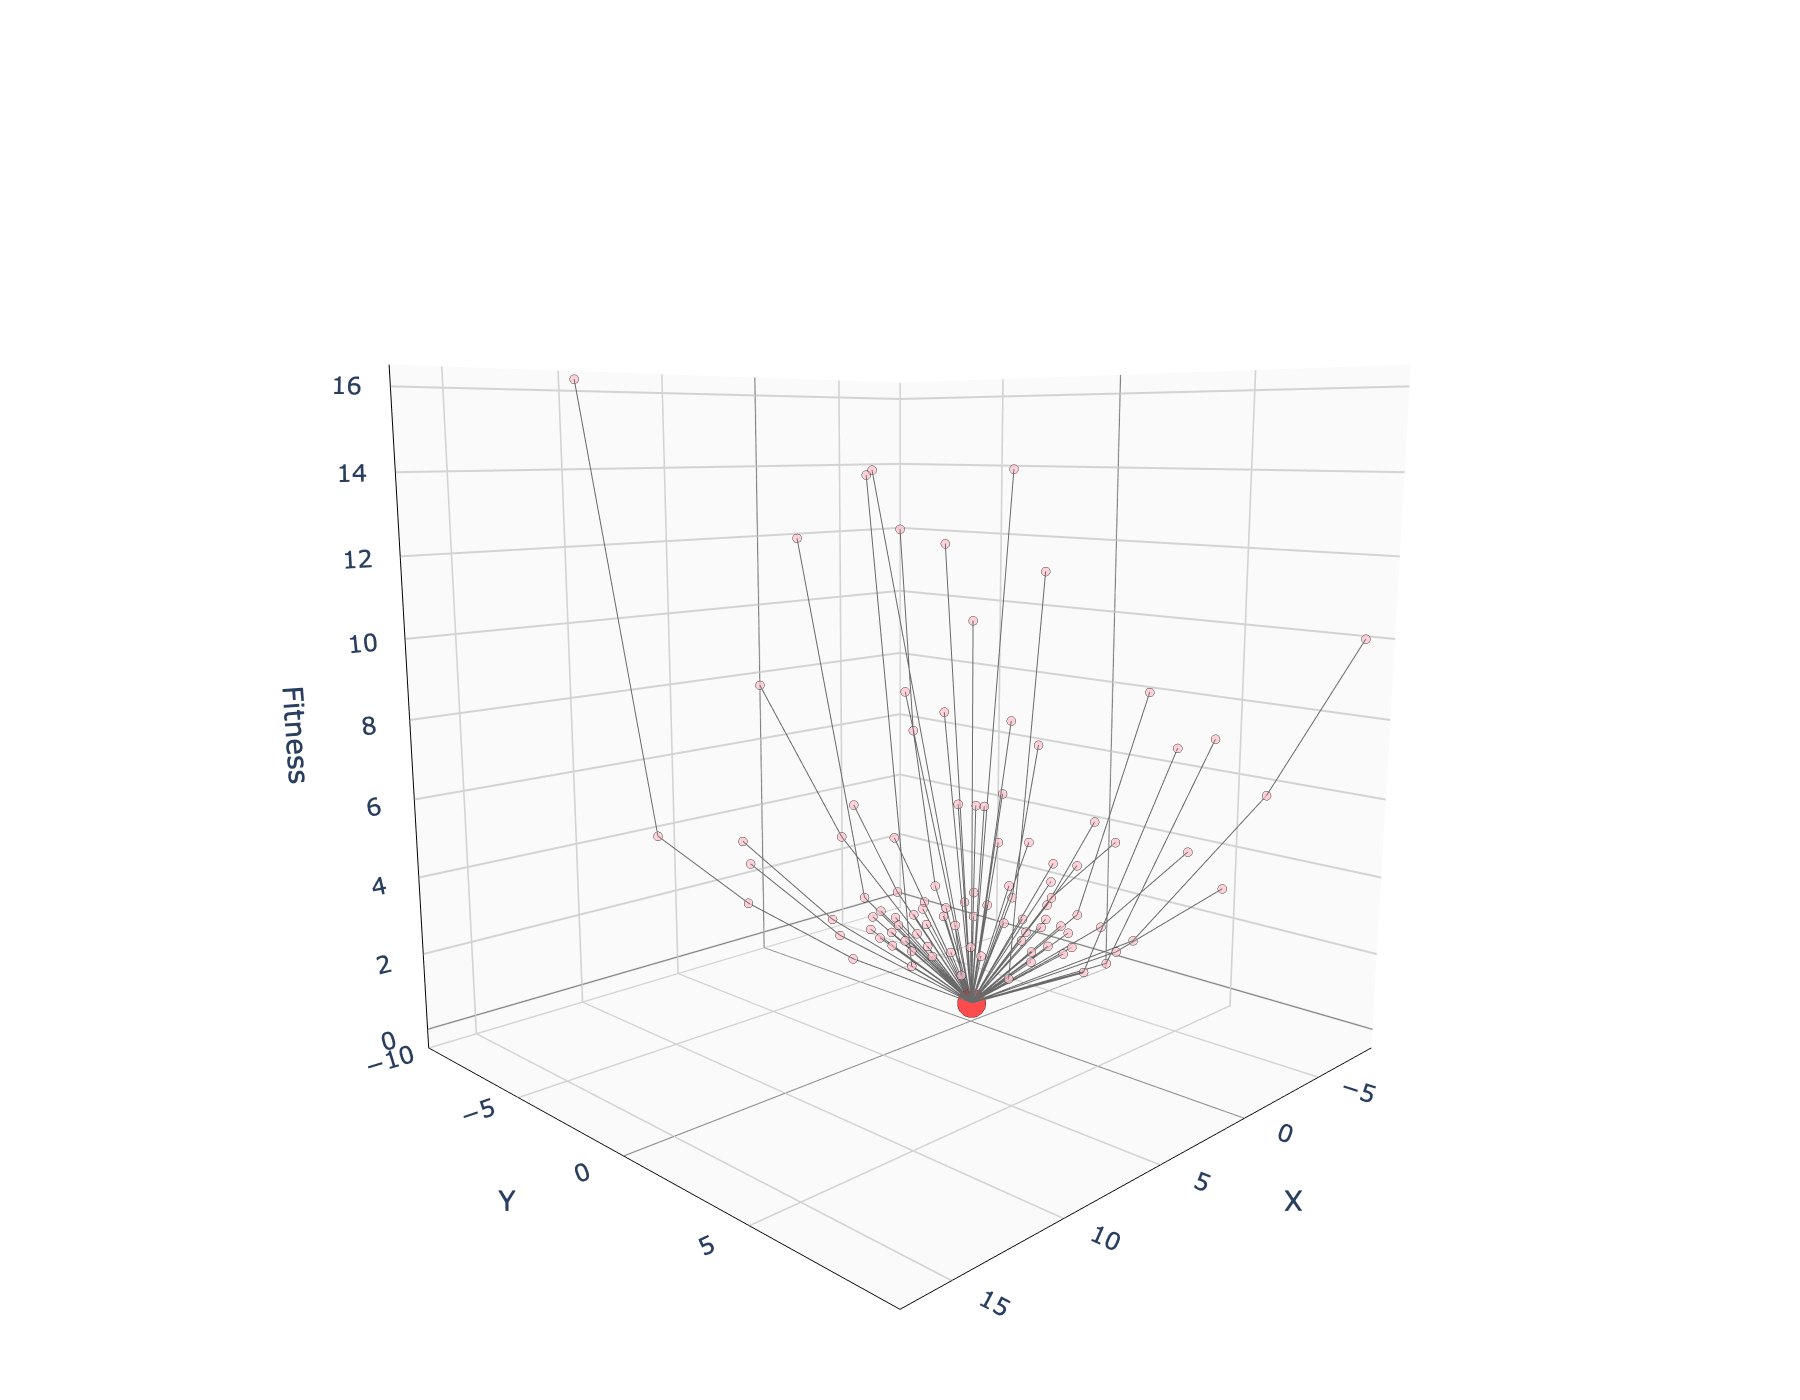
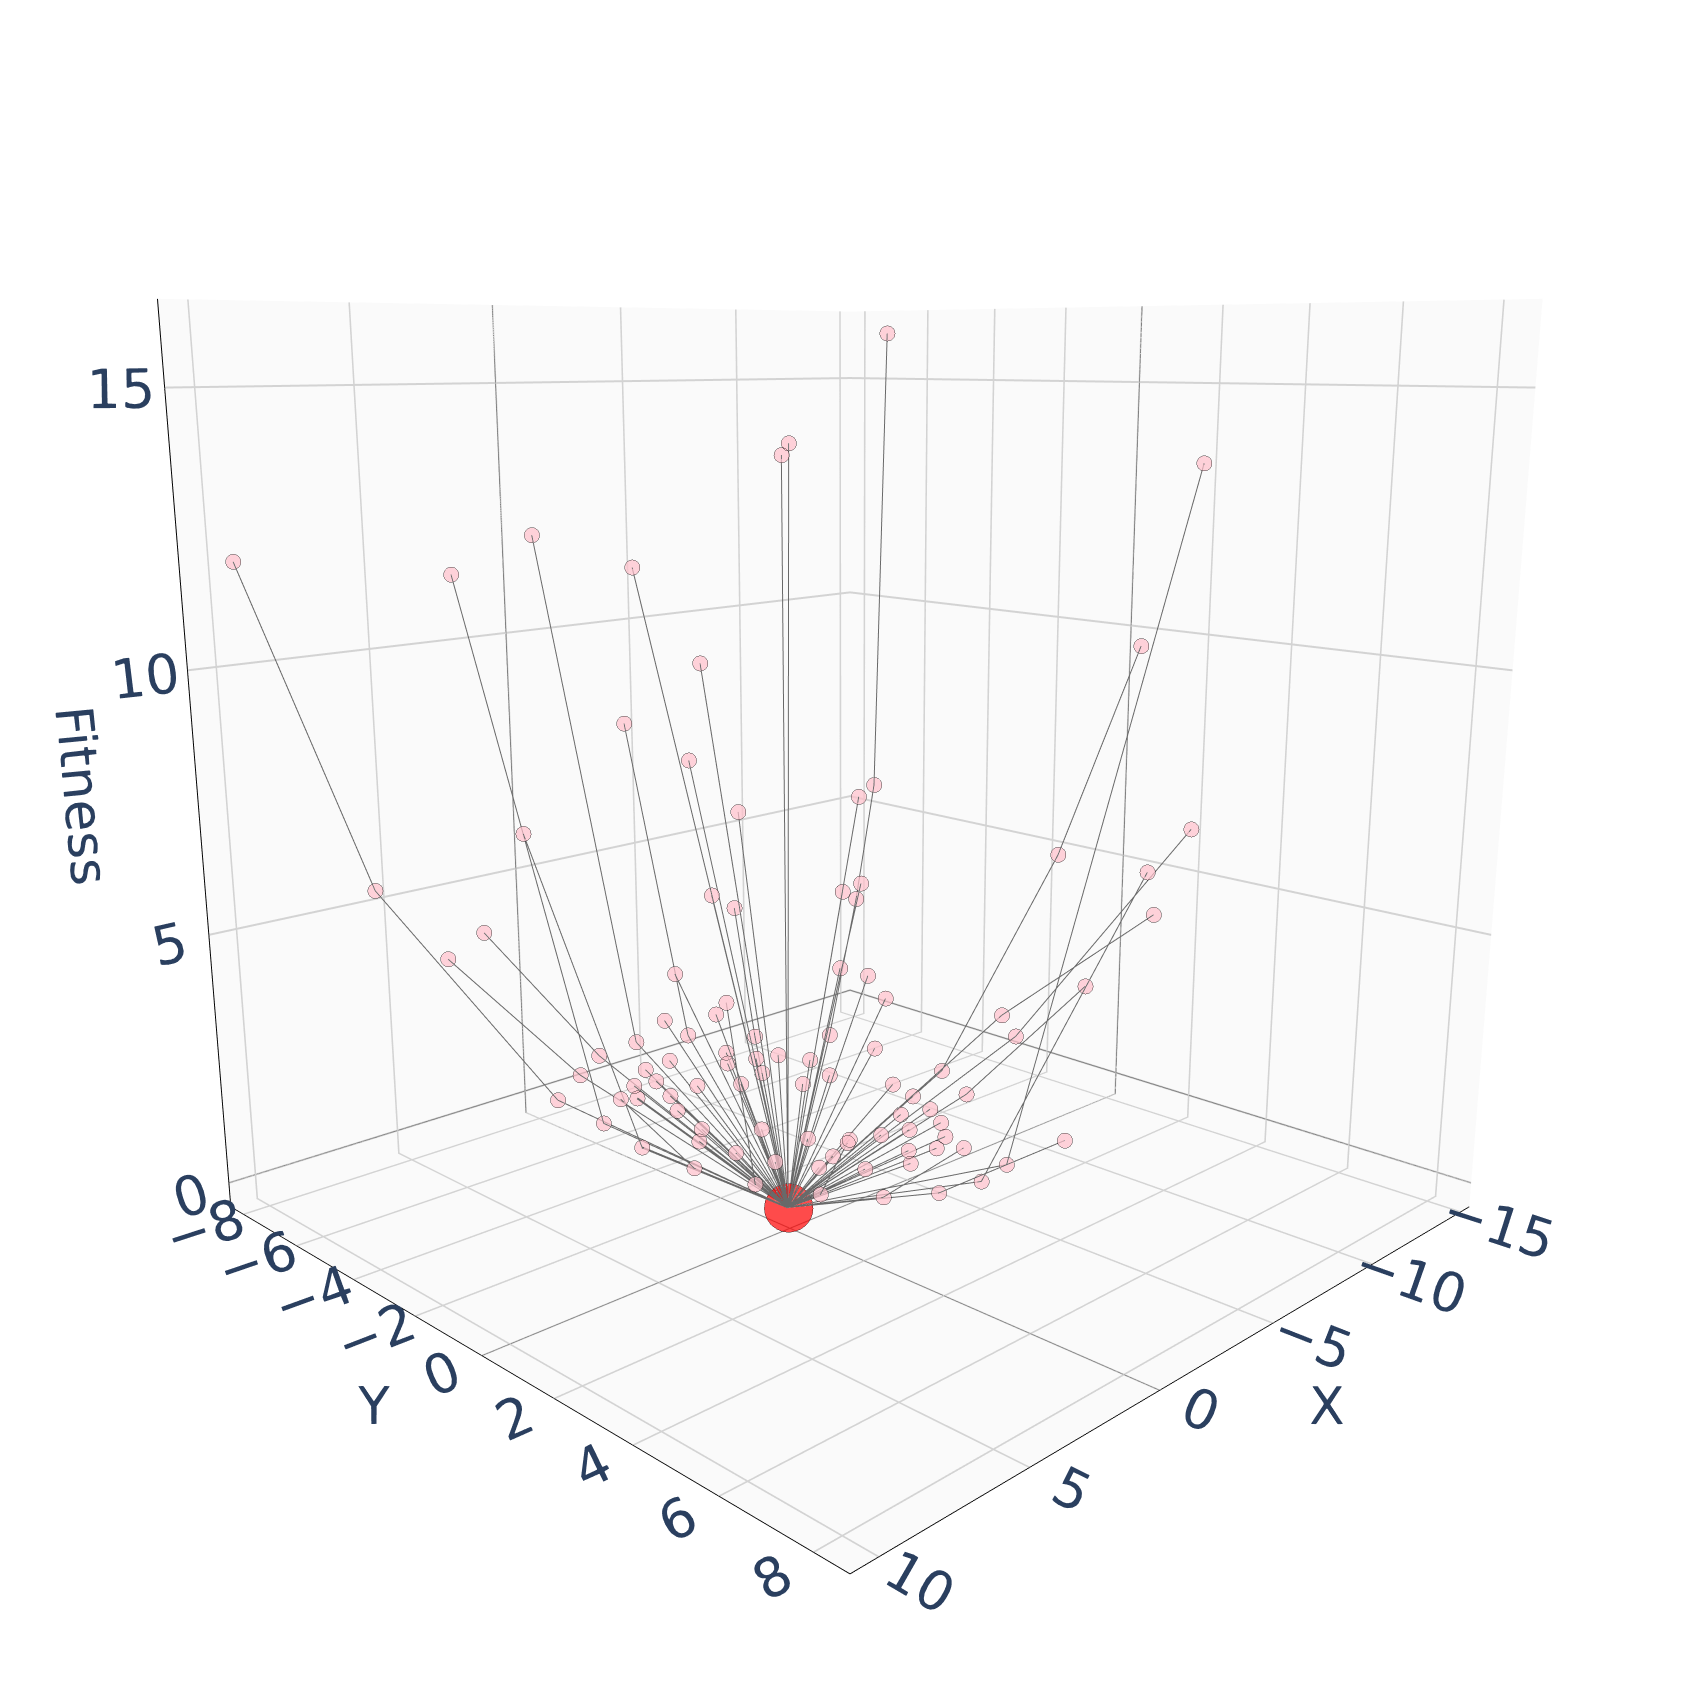
feat: enhance plotting functions and metrics visualization in number partitioning examples (fig4 and fig5 in paper)

diff --git a/examples/number_partitioning/plot_metrics.py b/examples/number_partitioning/plot_metrics.py
@@ -21,6 +21,8 @@ Gent, I. P., & Walsh, T. (1998). Analysis of heuristics for number partitioning.
 Outputs one figure: ``NPP_phase_transition_sweep.png``
 """
 
+import os
+from concurrent.futures import ProcessPoolExecutor
 from pathlib import Path
 
 import matplotlib.patches as mpatches
@@ -72,43 +74,53 @@ def plot_npp_metrics(
 
     _X_K_RIGHT = float(ks.max()) + 0.02
 
+    TITLE_FONTSIZE = 14
+    LABEL_FONTSIZE = 13
+    TICK_FONTSIZE = 12
+    LEGEND_FONTSIZE = 13
+
     _YLABEL_KW = {
         "rotation": 90,
         "ha": "center",
         "va": "center",
-        "labelpad": 20,
-        "fontsize": 8,
+        "labelpad": 10,
+        "fontsize": LABEL_FONTSIZE,
     }
+    _XLABEL = "k"
 
-    SUCCESS_YLABEL = "ILS success rate\nvs. best fitness in\nthe sampled network"
-
+    # (title, y-axis label, series, colour, marker)
     PANELS = [
-        ("Global to local\n funnel proportion", global_funnel_prop, C_GLOBAL, "^"),
-        ("Number of CMLON\nlocal optima", n_optima, C_LINE, "o"),
-        ("Number of CMLON\nfunnels", n_funnels, C_SINK, "s"),
-        (SUCCESS_YLABEL, ils_success, C_SUCCESS, "o"),
-        ("Global CMLON\nstrength", global_strength, C_GLOBAL, "D"),
+        ("(a) Global to local funnel proportion", "Proportion", global_funnel_prop, C_GLOBAL, "^"),
+        ("(b) Number of CMLON local optima", "Local optima", n_optima, C_LINE, "o"),
+        ("(c) Number of CMLON funnels", "Funnels", n_funnels, C_SINK, "s"),
+        ("(d) ILS success vs. best sampled fitness", "Success rate", ils_success, C_SUCCESS, "o"),
+        ("(e) Global CMLON strength", "Strength", global_strength, C_GLOBAL, "D"),
     ]
 
     def _draw_background(ax):
         ax.axvspan(k_centre, _X_K_RIGHT, color=C_BAND, alpha=0.55, zorder=0)
         ax.axvline(k_centre, color=C_REF, linewidth=0.9, linestyle="--", zorder=1)
 
-    def _plot_metric_ax(ax, ylabel, series, colour, marker):
+    def _style_axes(ax, title, ylabel):
+        ax.set_title(title, fontsize=TITLE_FONTSIZE, pad=8)
+        ax.set_ylabel(ylabel, **_YLABEL_KW)
+        ax.set_xlabel(_XLABEL, fontsize=LABEL_FONTSIZE, labelpad=4)
+        ax.tick_params(axis="both", labelsize=TICK_FONTSIZE)
+
+    def _plot_metric_ax(ax, title, ylabel, series, colour, marker):
         _draw_background(ax)
         ax.plot(
             ks,
             series,
             color=colour,
             marker=marker,
-            markersize=4,
-            linewidth=1.4,
+            markersize=5,
+            linewidth=1.7,
             markeredgewidth=0.5,
             markeredgecolor="white",
             zorder=3,
         )
-        ax.set_ylabel(ylabel, **_YLABEL_KW)
-        ax.tick_params(axis="both", labelsize=9)
+        _style_axes(ax, title, ylabel)
         ax.spines[["top", "right"]].set_visible(False)
         ax.grid(axis="y", linewidth=0.4, alpha=0.4)
         if series.min() >= 0:
@@ -121,22 +133,11 @@ def plot_npp_metrics(
             ks,
             deriv_signal,
             color=C_DERIV,
-            linewidth=1.5,
+            linewidth=1.8,
             zorder=3,
-            label=r"$-\,d(\mathrm{success})/dk$  (smoothed)",
         )
-        ax.set_ylabel("Transition\nrate", **_YLABEL_KW)
-        ax.set_xlabel("Phase-transition parameter  k", fontsize=10.5, labelpad=8)
-        ax.tick_params(axis="both", labelsize=9)
+        _style_axes(ax, "(f) Transition rate", r"$-\,d(\mathrm{success})/dk$")
         ax.spines[["top", "right"]].set_visible(False)
-        ax.legend(
-            fontsize=7.5,
-            loc="upper center",
-            bbox_to_anchor=(0.5, -0.38),
-            ncol=1,
-            framealpha=0.85,
-            edgecolor="#d1d5db",
-        )
         ax.set_xlim(ks.min() - 0.02, ks.max() + 0.02)
 
     # Legend
@@ -155,18 +156,25 @@ def plot_npp_metrics(
             linewidth=0.9,
             label=(f"transition centre  k*\u202f=\u202f{k_centre:.2f}  "),
         ),
+        Line2D(
+            [0],
+            [0],
+            color=C_DERIV,
+            linewidth=1.8,
+            label=r"$-\,d(\mathrm{success})/dk$  (smoothed, panel f)",
+        ),
     ]
 
     # Grid arrengment
 
     output_path_grid = Path(IMAGES_DIR) / "NPP_phase_transition_sweep.png"
-    fig_g = plt.figure(figsize=(14, 8))
+    fig_g = plt.figure(figsize=(15, 9.5))
     gs = fig_g.add_gridspec(
         3,
         3,
-        hspace=0.38,
-        wspace=0.36,
-        height_ratios=[1, 1, 0.36],
+        hspace=0.5,
+        wspace=0.32,
+        height_ratios=[1, 1, 0.16],
     )
 
     ax_g00 = fig_g.add_subplot(gs[0, 0])
@@ -187,27 +195,24 @@ def plot_npp_metrics(
     ax_g_leg.set_axis_off()
     ax_g_leg.legend(
         handles=legend_handles,
-        fontsize=10,
+        fontsize=LEGEND_FONTSIZE,
         loc="center",
-        ncol=1,
+        ncol=len(legend_handles),
         framealpha=0.95,
         edgecolor="#d1d5db",
         borderpad=0.45,
         labelspacing=0.65,
     )
 
-    for ax in (ax_g00, ax_g01, ax_g02, ax_g10, ax_g11):
-        ax.tick_params(axis="x", labelbottom=False)
-
     # Titles and saving
 
     fig_g.suptitle(
         f"NPP phase transition - LON metric analysis (N={N}, {N_RUNS} ILS runs per k)",
-        fontsize=11,
+        fontsize=16,
         fontweight="bold",
         y=0.98,
     )
-    fig_g.subplots_adjust(left=0.07, right=0.98, top=0.90, bottom=0.11)
+    fig_g.subplots_adjust(left=0.07, right=0.98, top=0.90, bottom=0.04)
     fig_g.savefig(output_path_grid, dpi=300, bbox_inches="tight", pad_inches=0.12)
     plt.close(fig_g)
     print(f"Saved \u2192 {output_path_grid}")
@@ -221,41 +226,48 @@ RANDOM_SEED = 42
 EQ_ATOL = 1e-8
 
 K_VALUES = np.linspace(0.1, 1.0, 50)
+# Cap on worker processes, so the sweep behaves on shared machines.
+N_JOBS = int(os.environ.get("LONKIT_N_JOBS", "8"))
+
+
+def sweep_one(k: float) -> dict:
+    """Sample one NPP instance at the given k and return its CMLON metrics."""
+    sampler_config = ILSSamplerConfig(n_runs=N_RUNS, n_iter_no_change=N_ITER, seed=RANDOM_SEED)
+    lon_config = LONConfig(eq_atol=EQ_ATOL)
+
+    problem = NumberPartitioning(n=N, k=k, instance_seed=INSTANCE_SEED)
+    sampler = ILSSampler(sampler_config)
+    result = sampler.sample(problem)
+
+    lon = sampler.sample_to_lon(result, lon_config)
+    cmlon = lon.to_cmlon()
+
+    m = cmlon.compute_metrics()
+    print(
+        f"  k={k:.3f}  optima={m['n_optima']:>3}  funnels={m['n_funnels']:>2}  "
+        f"success={m['success']:.0%}",
+        flush=True,
+    )
+    return {
+        "k": k,
+        "n_optima": m["n_optima"],
+        "n_funnels": m["n_funnels"],
+        "global_strength": m["global_strength"],
+        "global_funnel_prop": m["global_funnel_proportion"],
+        "ils_success": m["success"],
+    }
 
 
 def main():
     Path(IMAGES_DIR).mkdir(parents=True, exist_ok=True)
 
-    print(f"Sweeping k across {len(K_VALUES)} values  (n={N}, n_runs={N_RUNS})\n")
+    print(
+        f"Sweeping k across {len(K_VALUES)} values  (n={N}, n_runs={N_RUNS}, "
+        f"{N_JOBS} worker processes)\n"
+    )
 
-    records = []
-    sampler_config = ILSSamplerConfig(n_runs=N_RUNS, n_iter_no_change=N_ITER, seed=RANDOM_SEED)
-    lon_config = LONConfig(eq_atol=EQ_ATOL)
-
-    for k in K_VALUES:
-        problem = NumberPartitioning(n=N, k=k, instance_seed=INSTANCE_SEED)
-        sampler = ILSSampler(sampler_config)
-        result = sampler.sample(problem)
-
-        lon = sampler.sample_to_lon(result, lon_config)
-        cmlon = lon.to_cmlon()
-
-        m = cmlon.compute_metrics()
-
-        records.append(
-            {
-                "k": k,
-                "n_optima": m["n_optima"],
-                "n_funnels": m["n_funnels"],
-                "global_strength": m["global_strength"],
-                "global_funnel_prop": m["global_funnel_proportion"],
-                "ils_success": m["success"],
-            }
-        )
-        print(
-            f"  k={k:.3f}  optima={m['n_optima']:>3}  funnels={m['n_funnels']:>2}  "
-            f"success={m['success']:.0%}"
-        )
+    with ProcessPoolExecutor(max_workers=N_JOBS) as executor:
+        records = list(executor.map(sweep_one, K_VALUES))
 
     ks = np.array([r["k"] for r in records])
     n_optima = np.array([r["n_optima"] for r in records])

diff --git a/examples/number_partitioning/plot_lons.py b/examples/number_partitioning/plot_lons.py
@@ -2,6 +2,7 @@ from pathlib import Path
 
 import matplotlib.pyplot as plt
 from npp_paths import IMAGES_DIR
+from PIL import Image, ImageOps
 
 from lonkit import (
     CMLON,
@@ -20,14 +21,19 @@ RANDOM_SEED = 42
 
 K_VALUES = [0.3, 0.7, 0.95]
 
+TITLE_FONTSIZE = 20
+SUPTITLE_FONTSIZE = 26
+AXIS_TITLE_FONTSIZE_3D = 26  # px
+TICK_FONTSIZE_3D = 18
+
 
 def render_3d_lons(cmlon_by_k: dict[float, CMLON], output_dir: Path = Path(IMAGES_DIR)) -> None:
     output_dir.mkdir(parents=True, exist_ok=True)
 
     standard_camera = dict(
         up=dict(x=0, y=0, z=1),
-        center=dict(x=0, y=0, z=0),
-        eye=dict(x=1.55, y=1.55, z=0.4),
+        center=dict(x=0, y=0, z=-0.08),
+        eye=dict(x=1.5, y=1.5, z=0.45),
     )
 
     axis_config = dict(
@@ -41,49 +47,65 @@ def render_3d_lons(cmlon_by_k: dict[float, CMLON], output_dir: Path = Path(IMAGE
         zeroline=True,
         zerolinecolor="gray",
         showticklabels=True,
+        tickfont=dict(size=TICK_FONTSIZE_3D),
     )
 
     for k, cmlon in cmlon_by_k.items():
         vis = LONVisualizer(min_edge_width=0.5, max_edge_width=1, min_node_size=2.5, arrow_size=0.1)
-        fig = vis.plot_3d(cmlon)
+        fig = vis.plot_3d(cmlon, seed=RANDOM_SEED)
         fig.update_layout(
             scene=dict(
-                xaxis=dict(**axis_config, title="X"),
-                yaxis=dict(**axis_config, title="Y"),
-                zaxis=dict(**axis_config, title="Fitness"),
+                xaxis=dict(
+                    **axis_config, title=dict(text="X", font=dict(size=AXIS_TITLE_FONTSIZE_3D))
+                ),
+                yaxis=dict(
+                    **axis_config, title=dict(text="Y", font=dict(size=AXIS_TITLE_FONTSIZE_3D))
+                ),
+                zaxis=dict(
+                    **axis_config,
+                    nticks=6,
+                    tickformat="~s",
+                    title=dict(text="Fitness", font=dict(size=AXIS_TITLE_FONTSIZE_3D)),
+                ),
                 camera=dict(**standard_camera),
                 aspectmode="cube",
             ),
             showlegend=False,
-            width=900,
-            height=700,
-            margin=dict(l=20, r=20, t=40, b=20),
+            width=850,
+            height=850,
+            margin=dict(l=10, r=10, t=10, b=10),
         )
 
         fig.write_image(output_dir / f"NPP_{k}_3d.png", scale=2)
 
 
+def _load_trimmed(path: Path) -> Image.Image:
+    """Load a rendered panel with its white border cropped, so the plot fills its grid cell."""
+    img = Image.open(path).convert("RGB")
+    return img.crop(ImageOps.invert(img).getbbox())
+
+
 def render_merged_lon_grid(k_values: list[float], output_dir: Path = Path(IMAGES_DIR)) -> None:
-    fig, axes = plt.subplots(2, len(k_values), figsize=(5 * len(k_values), 10))
+    fig, axes = plt.subplots(2, len(k_values), figsize=(6 * len(k_values), 11))
     if len(k_values) == 1:
         axes = [[axes[0]], [axes[1]]]
 
     for idx, k in enumerate(k_values):
-        img_2d = plt.imread(output_dir / f"NPP_{k}_2d.png")
-        img_3d = plt.imread(output_dir / f"NPP_{k}_3d.png")
+        img_2d = _load_trimmed(output_dir / f"NPP_{k}_2d.png")
+        img_3d = _load_trimmed(output_dir / f"NPP_{k}_3d.png")
 
         ax_top = axes[0][idx]
         ax_top.imshow(img_2d)
-        ax_top.set_title(f"2D CMLON (k={k})", fontsize=12)
+        ax_top.set_title(f"2D CMLON (k={k})", fontsize=TITLE_FONTSIZE)
         ax_top.axis("off")
 
         ax_bottom = axes[1][idx]
         ax_bottom.imshow(img_3d)
-        ax_bottom.set_title(f"3D CMLON (k={k})", fontsize=12)
+        ax_bottom.set_title(f"3D CMLON (k={k})", fontsize=TITLE_FONTSIZE)
         ax_bottom.axis("off")
 
-    fig.suptitle("Number Partitioning CMLON Views", fontsize=16, y=0.98)
-    fig.tight_layout(rect=(0, 0, 1, 0.96))
+    fig.suptitle("Number Partitioning CMLON Views", fontsize=SUPTITLE_FONTSIZE, y=0.99)
+    fig.tight_layout(rect=(0, 0, 1, 0.95), h_pad=2.5, w_pad=1.0)
     fig.savefig(output_dir / "NPP_merged_cmlon_views.png", dpi=200)
     plt.close(fig)
 
@@ -106,7 +128,7 @@ def main():
         cmlon_by_k[k] = cmlon
 
         vis = LONVisualizer(0.5, 1, arrow_size=0.1)
-        vis.plot_2d(cmlon, f"{IMAGES_DIR}/NPP_{k}_2d.png")
+        vis.plot_2d(cmlon, f"{IMAGES_DIR}/NPP_{k}_2d.png", dpi=250, seed=RANDOM_SEED)
 
     render_3d_lons(cmlon_by_k)
     render_merged_lon_grid(K_VALUES)
